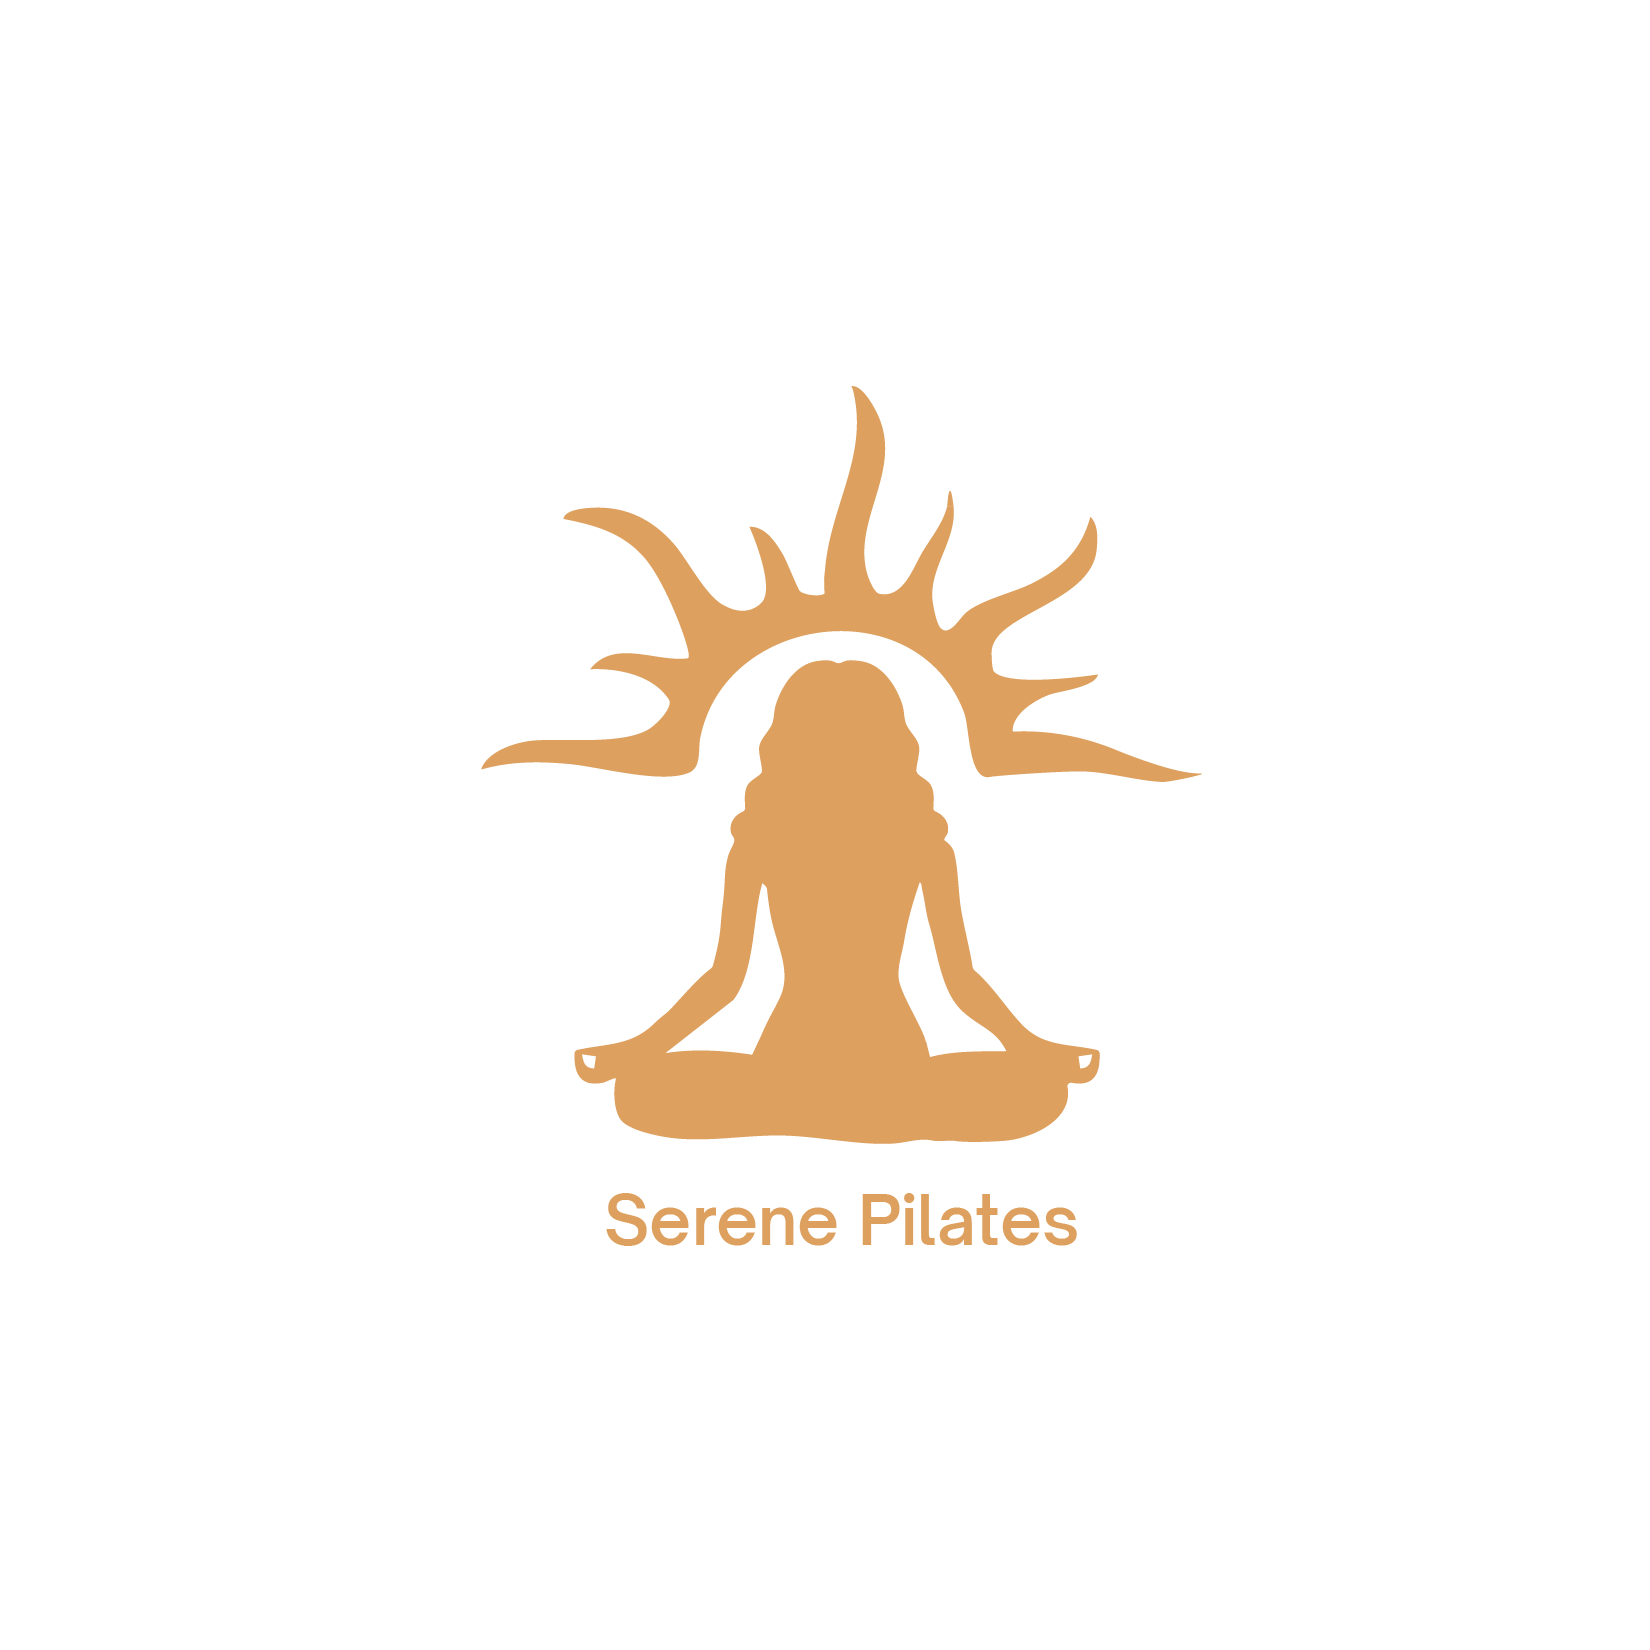
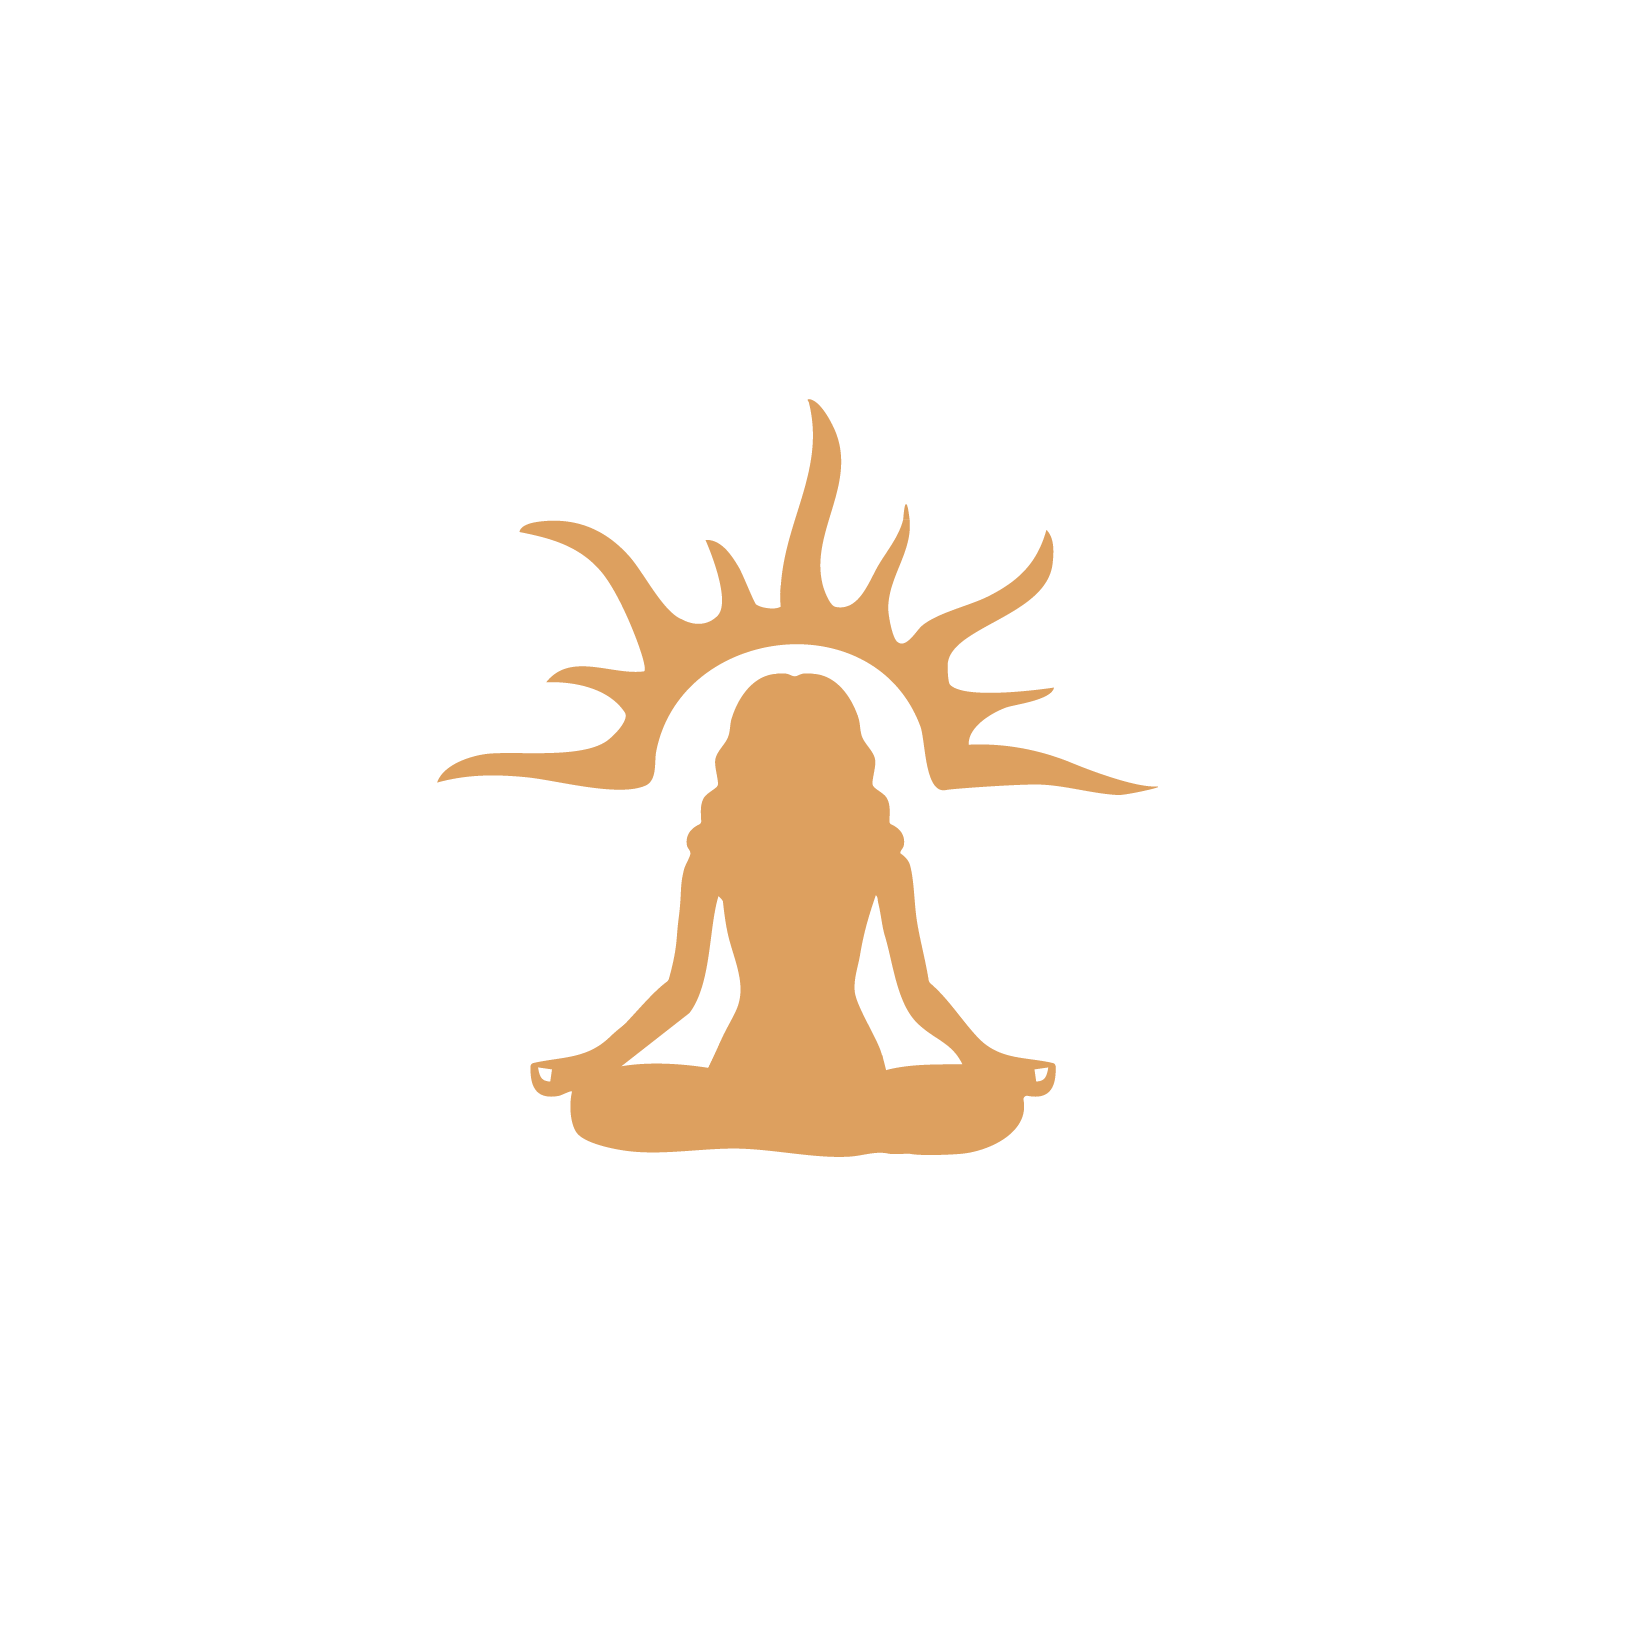
frontend done

Changed region(s): [[0.2782, 0.2164, 0.7109, 0.7727]]

diff --git a/src/app/about/page.tsx b/src/app/about/page.tsx
@@ -1,19 +1,118 @@
-import type { Metadata } from "next";
+import { Award, Heart, Target, Users } from 'lucide-react';
+import Link from 'next/link';
+import Image from 'next/image';
+import { createMetadata } from '@/lib/metadata';
 
-export const metadata: Metadata = {
-  title: "About Us",
-  description: "Learn about our studio story and meet our experienced Pilates instructors.",
-};
+export const metadata = createMetadata('about');
 
 export default function AboutPage() {
   return (
-    <div className="container mx-auto px-4 py-16">
-      <h1 className="text-4xl md:text-5xl font-bold text-primary mb-8 text-center">
-        About Serene Pilates
-      </h1>
-      <p className="text-lg text-gray-700 text-center mb-12 max-w-3xl mx-auto">
-        Our story and the passionate instructors who bring it to life. Ready for Figma design integration.
-      </p>
+    <div className="py-16 bg-white">
+      <div className="max-w-7xl mx-auto px-4 sm:px-6 lg:px-8">
+        {/* Hero Section */}
+        <div className="text-center mb-20">
+          <h1 className="mb-4 text-[rgb(96,108,55)]">About Serene Pilates</h1>
+          <p className="mb-6 text-xl md:text-2xl text-[#DDA05F] tracking-wide font-bold font-normal not-italic text-[28px]">
+            Strength, Balance, and Serenity
+          </p>
+          <p className="text-xl text-[#606C37] max-w-3xl mx-auto font-light leading-relaxed">
+            Your trusted Pilates sanctuary in Scarborough, Ontario — dedicated to nurturing wellness, strength, and serenity through mindful movement
+          </p>
+        </div>
+
+        {/* Story Section */}
+        <div className="mb-24">
+          <div className="grid md:grid-cols-2 gap-16 items-center">
+            <div className="relative">
+              <Image
+                src="/assets/images/workout-img.png"
+                alt="Serene Pilates Studio"
+                width={600}
+                height={600}
+                className="relative rounded-3xl shadow-2xl w-full h-[600px] object-cover"
+                priority
+              />
+            </div>
+            <div>
+              <h2 className="mb-8 text-[rgb(96,108,55)]">Our Story</h2>
+              <div className="space-y-6 text-[#606C37] font-light text-lg leading-relaxed">
+                <p>
+                  Serene Pilates is a boutique movement studio designed to help you feel strong, balanced, and fully connected to your body. We blend modern Pilates, slow-flow yoga, and restorative practices into a seamless experience that builds strength while calming your nervous system.
+                </p>
+                <p>
+                  Our mat, reformer, and yoga classes support every stage of your movement journey — from foundational training to sculpt-driven strength and deeply restorative recovery. Every class is intentionally programmed to improve posture, increase mobility, and create space to reset in a fast-paced world.
+                </p>
+                <p>
+                  At Serene, movement isn&apos;t rushed or overwhelming. Our instructors meet you where you are, offering expert guidance and smart modifications so you can move with confidence.
+                </p>
+                <p>
+                  This is your place to breathe, build strength, and come back to yourself.
+                </p>
+                <p>
+                  Move softly. Build strength. Find your balance.
+                </p>
+              </div>
+            </div>
+          </div>
+        </div>
+
+        {/* Values Section */}
+        <div className="mb-24">
+          <h2 className="text-center mb-16 text-[rgb(96,108,55)]">Our Values</h2>
+          <div className="grid md:grid-cols-2 lg:grid-cols-4 gap-8">
+            <div className="text-center p-8 bg-[#FEFAE0] rounded-3xl shadow-lg hover:shadow-xl transition-all duration-300">
+              <div className="inline-flex items-center justify-center w-20 h-20 rounded-full bg-[#BC6C24] text-[#FEFAE0] mb-6 shadow-lg">
+                <Heart size={36} />
+              </div>
+              <h3 className="mb-4 text-[#283517]">Compassion</h3>
+              <p className="text-[#606C37] font-light leading-relaxed">
+                We create a supportive, judgment-free environment where everyone feels welcomed and valued
+              </p>
+            </div>
+            <div className="text-center p-8 bg-[#FEFAE0] rounded-3xl shadow-lg hover:shadow-xl transition-all duration-300">
+              <div className="inline-flex items-center justify-center w-20 h-20 rounded-full bg-[#DDA05F] text-[#FEFAE0] mb-6 shadow-lg">
+                <Award size={36} />
+              </div>
+              <h3 className="mb-4 text-[#283517]">Excellence</h3>
+              <p className="text-[#606C37] font-light leading-relaxed">
+                Our certified instructors uphold the highest standards of Pilates education and practice
+              </p>
+            </div>
+            <div className="text-center p-8 bg-[#FEFAE0] rounded-3xl shadow-lg hover:shadow-xl transition-all duration-300">
+              <div className="inline-flex items-center justify-center w-20 h-20 rounded-full bg-[#606C37] text-[#FEFAE0] mb-6 shadow-lg">
+                <Target size={36} />
+              </div>
+              <h3 className="mb-4 text-[#283517]">Personalization</h3>
+              <p className="text-[#606C37] font-light leading-relaxed">
+                We tailor our approach to honor each student&apos;s unique needs, goals, and journey
+              </p>
+            </div>
+            <div className="text-center p-8 bg-[#FEFAE0] rounded-3xl shadow-lg hover:shadow-xl transition-all duration-300">
+              <div className="inline-flex items-center justify-center w-20 h-20 rounded-full bg-[#BC6C24] text-[#FEFAE0] mb-6 shadow-lg">
+                <Users size={36} />
+              </div>
+              <h3 className="mb-4 text-[#283517]">Community</h3>
+              <p className="text-[#606C37] font-light leading-relaxed">
+                We nurture connections and friendships that extend far beyond the studio walls
+              </p>
+            </div>
+          </div>
+        </div>
+
+        {/* CTA Section */}
+        <div className="mt-24 text-center p-16 bg-[#606C37] rounded-3xl text-[#FEFAE0] shadow-2xl">
+          <h2 className="mb-6 text-[#FEFAE0]">Join Our Community</h2>
+          <p className="mb-10 text-[#DDA05F] text-xl font-light max-w-2xl mx-auto leading-relaxed">
+            Experience the Serene Pilates difference. Book your first class today and begin your journey to wellness
+          </p>
+          <Link
+            href="/pricing"
+            className="inline-block px-12 py-5 bg-[#DDA05F] text-[#283517] rounded-full hover:shadow-2xl hover:scale-105 transition-all duration-300"
+          >
+            Join
+          </Link>
+        </div>
+      </div>
     </div>
   );
 }

diff --git a/src/lib/metadata.ts b/src/lib/metadata.ts
@@ -1,0 +1,97 @@
+import { Metadata } from 'next';
+
+export const defaultSEO = {
+  title: 'Serene Pilates | Pilates Studio in Scarborough, Ontario',
+  description: 'Transform your body and mind at Serene Pilates, Scarborough\'s premier Pilates studio. Offering Reformer, Mat, and specialized classes for all fitness levels. Join us at 1275 Morningside Ave.',
+  keywords: 'pilates, reformer pilates, mat pilates, yoga, scarborough pilates, fitness studio, wellness, ontario pilates, pilates classes, serene pilates',
+  image: 'https://serenepilates.ca/og-image.jpg',
+  siteUrl: 'https://serenepilates.ca',
+};
+
+export const pageSEO = {
+  home: {
+    title: 'Serene Pilates | Pilates Studio in Scarborough, Ontario',
+    description: 'Transform your body and mind at Serene Pilates, Scarborough\'s premier Pilates studio. Offering Reformer, Mat, and specialized classes for all fitness levels.',
+    keywords: 'pilates, reformer pilates, mat pilates, scarborough pilates, fitness studio, wellness',
+  },
+  classes: {
+    title: 'Class Types | Serene Pilates Scarborough',
+    description: 'Explore our diverse Pilates class offerings including Reformer, Mat, Jump Board, Barre, and specialized sessions. Classes for all fitness levels at Serene Pilates.',
+    keywords: 'reformer pilates classes, mat pilates, barre classes, pilates jump board, prenatal pilates, scarborough fitness classes',
+  },
+  about: {
+    title: 'About Us - Serene Pilates',
+    description: 'Your trusted Pilates sanctuary in Scarborough, Ontario — dedicated to nurturing wellness, strength, and serenity through mindful movement.',
+    keywords: 'about serene pilates, pilates studio scarborough, wellness studio, fitness community',
+  },
+  pricing: {
+    title: 'Membership Pricing | Serene Pilates Scarborough',
+    description: 'Flexible membership options at Serene Pilates including Reformer, Mat, and Serene Blend packages. Find the perfect plan for your fitness journey.',
+    keywords: 'pilates membership, pilates pricing, scarborough gym membership, reformer pilates cost, fitness packages',
+  },
+  booking: {
+    title: 'Book a Class | Serene Pilates Scarborough',
+    description: 'Book your Pilates class at Serene Pilates. Browse our schedule and reserve your spot in Reformer, Mat, or specialty classes.',
+    keywords: 'book pilates class, pilates schedule, reserve class, scarborough pilates booking',
+  },
+  contact: {
+    title: 'Contact Us | Serene Pilates Scarborough',
+    description: 'Get in touch with Serene Pilates. Visit us at 1275 Morningside Ave, Unit 30, Scarborough or call (647) 478-2400. We\'re here to help!',
+    keywords: 'contact serene pilates, pilates studio location, scarborough pilates address, pilates studio hours',
+  },
+  faq: {
+    title: 'FAQ | Serene Pilates Scarborough',
+    description: 'Find answers to common questions about Serene Pilates classes, memberships, policies, and more. Everything you need to know before your first class.',
+    keywords: 'pilates faq, pilates questions, pilates studio policies, class information, membership questions',
+  },
+};
+
+/**
+ * Generate metadata for a page
+ * Usage in page.tsx:
+ * export const metadata = createMetadata('about');
+ */
+export function createMetadata(
+  page: keyof typeof pageSEO,
+  customMetadata?: Partial<Metadata>
+): Metadata {
+  const pageData = pageSEO[page];
+  
+  return {
+    title: pageData.title,
+    description: pageData.description,
+    keywords: pageData.keywords,
+    authors: [{ name: 'Serene Pilates' }],
+    openGraph: {
+      title: pageData.title,
+      description: pageData.description,
+      url: `${defaultSEO.siteUrl}/${page === 'home' ? '' : page}`,
+      siteName: 'Serene Pilates',
+      images: [
+        {
+          url: defaultSEO.image,
+          width: 1200,
+          height: 630,
+          alt: 'Serene Pilates Studio',
+        },
+      ],
+      locale: 'en_CA',
+      type: 'website',
+    },
+    twitter: {
+      card: 'summary_large_image',
+      title: pageData.title,
+      description: pageData.description,
+      images: [defaultSEO.image],
+    },
+    robots: {
+      index: true,
+      follow: true,
+      googleBot: {
+        index: true,
+        follow: true,
+      },
+    },
+    ...customMetadata,
+  };
+}

diff --git a/src/app/not-found.tsx b/src/app/not-found.tsx
@@ -1,29 +1,43 @@
-import Link from "next/link";
+import Link from 'next/link';
+import { Home, Search } from 'lucide-react';
 
 export default function NotFound() {
   return (
-    <div className="container mx-auto px-4 py-16 min-h-[60vh] flex items-center justify-center">
-      <div className="text-center">
-        <h1 className="text-6xl md:text-8xl font-bold text-primary mb-4">404</h1>
-        <h2 className="text-2xl md:text-4xl font-semibold text-gray-800 mb-6">
-          Page Not Found
-        </h2>
-        <p className="text-lg text-gray-600 mb-8 max-w-md mx-auto">
-          Oops! The page you&apos;re looking for seems to have taken a peaceful retreat.
-        </p>
-        <div className="flex flex-col sm:flex-row gap-4 justify-center">
+    <div className="min-h-[70vh] flex items-center justify-center bg-gradient-to-br from-[#FEFAE0] to-white px-4">
+      <div className="text-center max-w-2xl mx-auto">
+        <div className="mb-8">
+          <h1 className="text-[120px] md:text-[180px] text-[#283517]/10 leading-none">404</h1>
+        </div>
+        
+        <div className="mb-8">
+          <h2 className="mb-4 text-[#283517]">Page Not Found</h2>
+          <p className="text-[#606C37] font-light text-lg leading-relaxed mb-6">
+            We couldn&apos;t find the page you&apos;re looking for. It may have been moved or doesn&apos;t exist.
+          </p>
+        </div>
+
+        <div className="flex flex-col sm:flex-row gap-4 justify-center items-center">
           <Link
             href="/"
-            className="bg-primary text-cream px-8 py-3 rounded-md font-semibold hover:bg-primary-dark transition-colors"
+            className="inline-flex items-center gap-2 px-8 py-4 bg-gradient-to-r from-[#606C37] to-[#283517] text-[#FEFAE0] rounded-full hover:shadow-xl transition-all duration-300 hover:scale-105"
           >
-            Go Home
+            <Home size={20} />
+            Back to Home
           </Link>
+          
           <Link
             href="/classes"
-            className="bg-accent text-cream px-8 py-3 rounded-md font-semibold hover:bg-accent-dark transition-colors"
+            className="inline-flex items-center gap-2 px-8 py-4 bg-white text-[#606C37] border-2 border-[#606C37] rounded-full hover:bg-[#606C37] hover:text-white transition-all duration-300 hover:scale-105"
           >
+            <Search size={20} />
             Browse Classes
           </Link>
+        </div>
+
+        <div className="mt-12 pt-8 border-t border-[#606C37]/20">
+          <p className="text-[#606C37] font-light text-sm">
+            Need help? <a href="/contact" className="text-[#BC6C24] hover:underline">Contact us</a> and we&apos;ll be happy to assist.
+          </p>
         </div>
       </div>
     </div>

diff --git a/src/components/LoadingSpinner.tsx b/src/components/LoadingSpinner.tsx
@@ -1,0 +1,24 @@
+export function LoadingSpinner() {
+  return (
+    <div className="flex items-center justify-center min-h-[400px]">
+      <div className="relative">
+        <div className="w-16 h-16 border-4 border-[#606C37]/20 rounded-full"></div>
+        <div className="w-16 h-16 border-4 border-[#BC6C24] border-t-transparent rounded-full animate-spin absolute top-0 left-0"></div>
+      </div>
+    </div>
+  );
+}
+
+export function FullPageLoading() {
+  return (
+    <div className="fixed inset-0 bg-[#FEFAE0] flex items-center justify-center z-50">
+      <div className="text-center">
+        <div className="relative inline-block mb-6">
+          <div className="w-20 h-20 border-4 border-[#606C37]/20 rounded-full"></div>
+          <div className="w-20 h-20 border-4 border-[#BC6C24] border-t-transparent rounded-full animate-spin absolute top-0 left-0"></div>
+        </div>
+        <p className="text-[#606C37] font-light text-lg">Loading...</p>
+      </div>
+    </div>
+  );
+}

diff --git a/src/components/Header.tsx b/src/components/Header.tsx
@@ -31,7 +31,7 @@ export default function Header() {
           <Link href="/" className="flex items-center space-x-2 group">
             <div className="relative h-20 sm:h-24 md:h-28 lg:h-[11.5rem] w-auto flex items-center">
               <Image
-                src="/assets/images/serene-pilates-logo.png"
+                src="/assets/images/Serene Pilates Logo -10.png"
                 alt="Serene Pilates"
                 width={1650}
                 height={1650}

diff --git a/src/components/ScrollToTop.tsx b/src/components/ScrollToTop.tsx
@@ -1,0 +1,14 @@
+'use client';
+
+import { useEffect } from 'react';
+import { usePathname } from 'next/navigation';
+
+export function ScrollToTop() {
+  const pathname = usePathname();
+
+  useEffect(() => {
+    window.scrollTo(0, 0);
+  }, [pathname]);
+
+  return null;
+}
